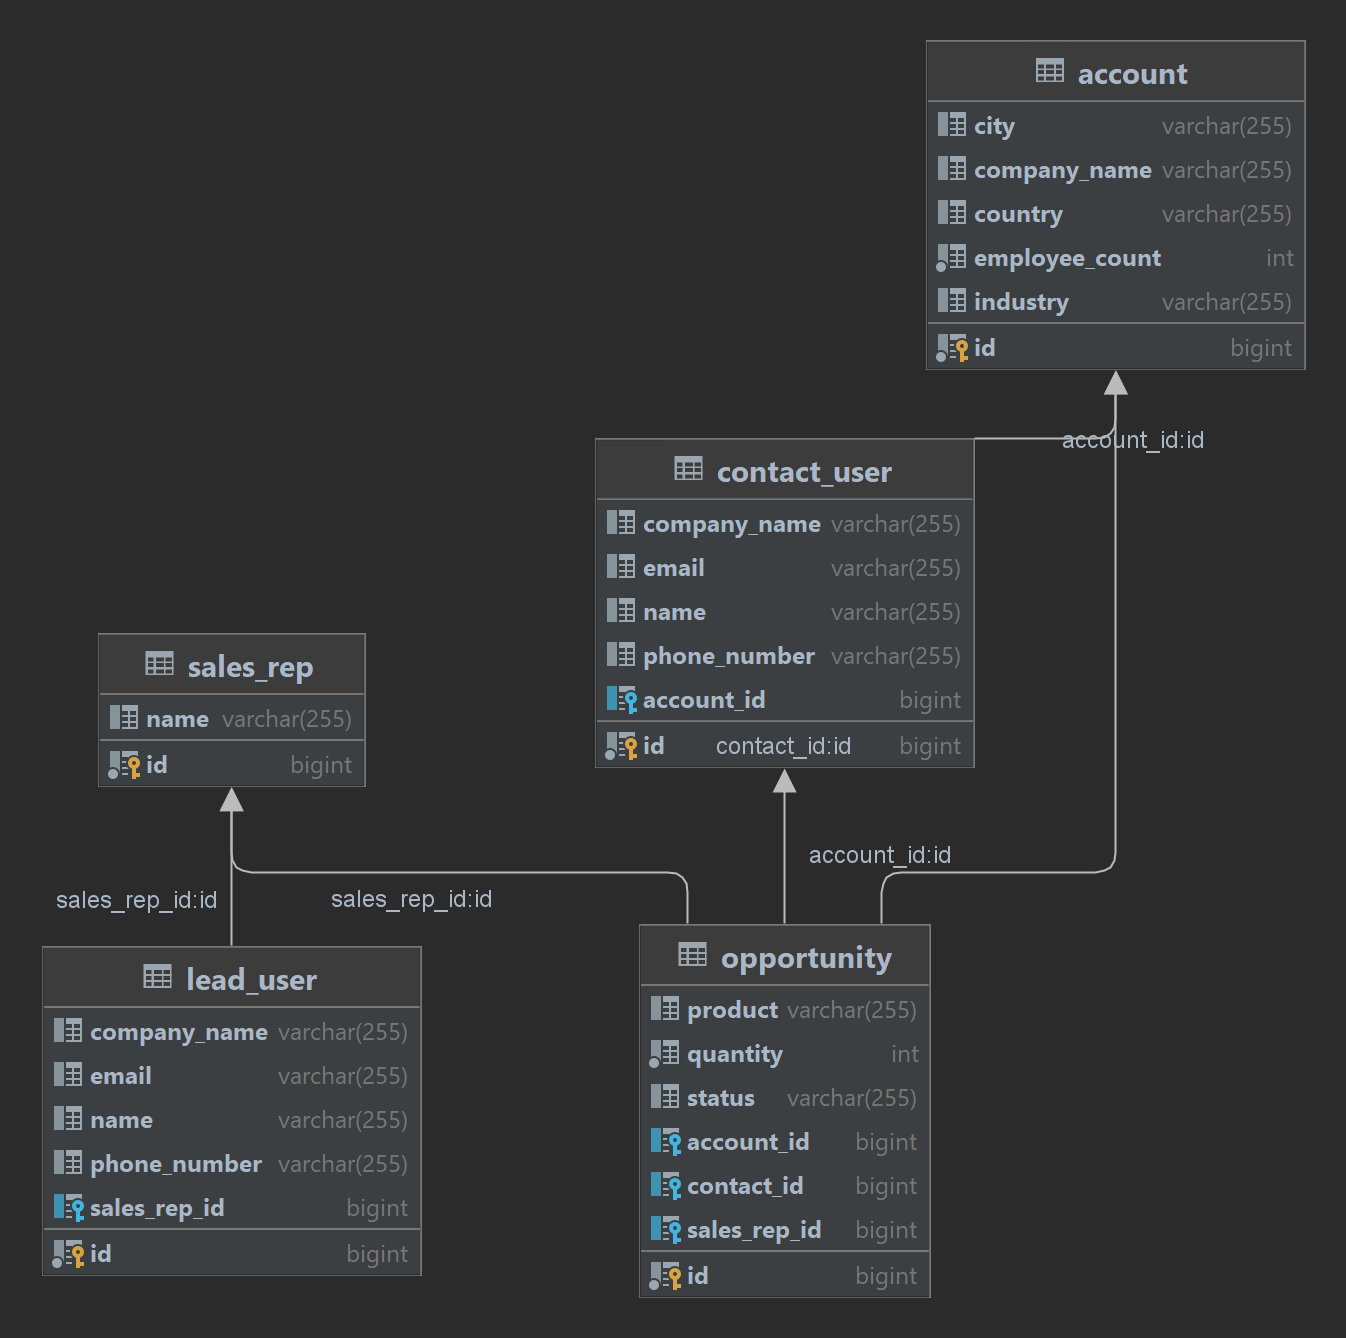
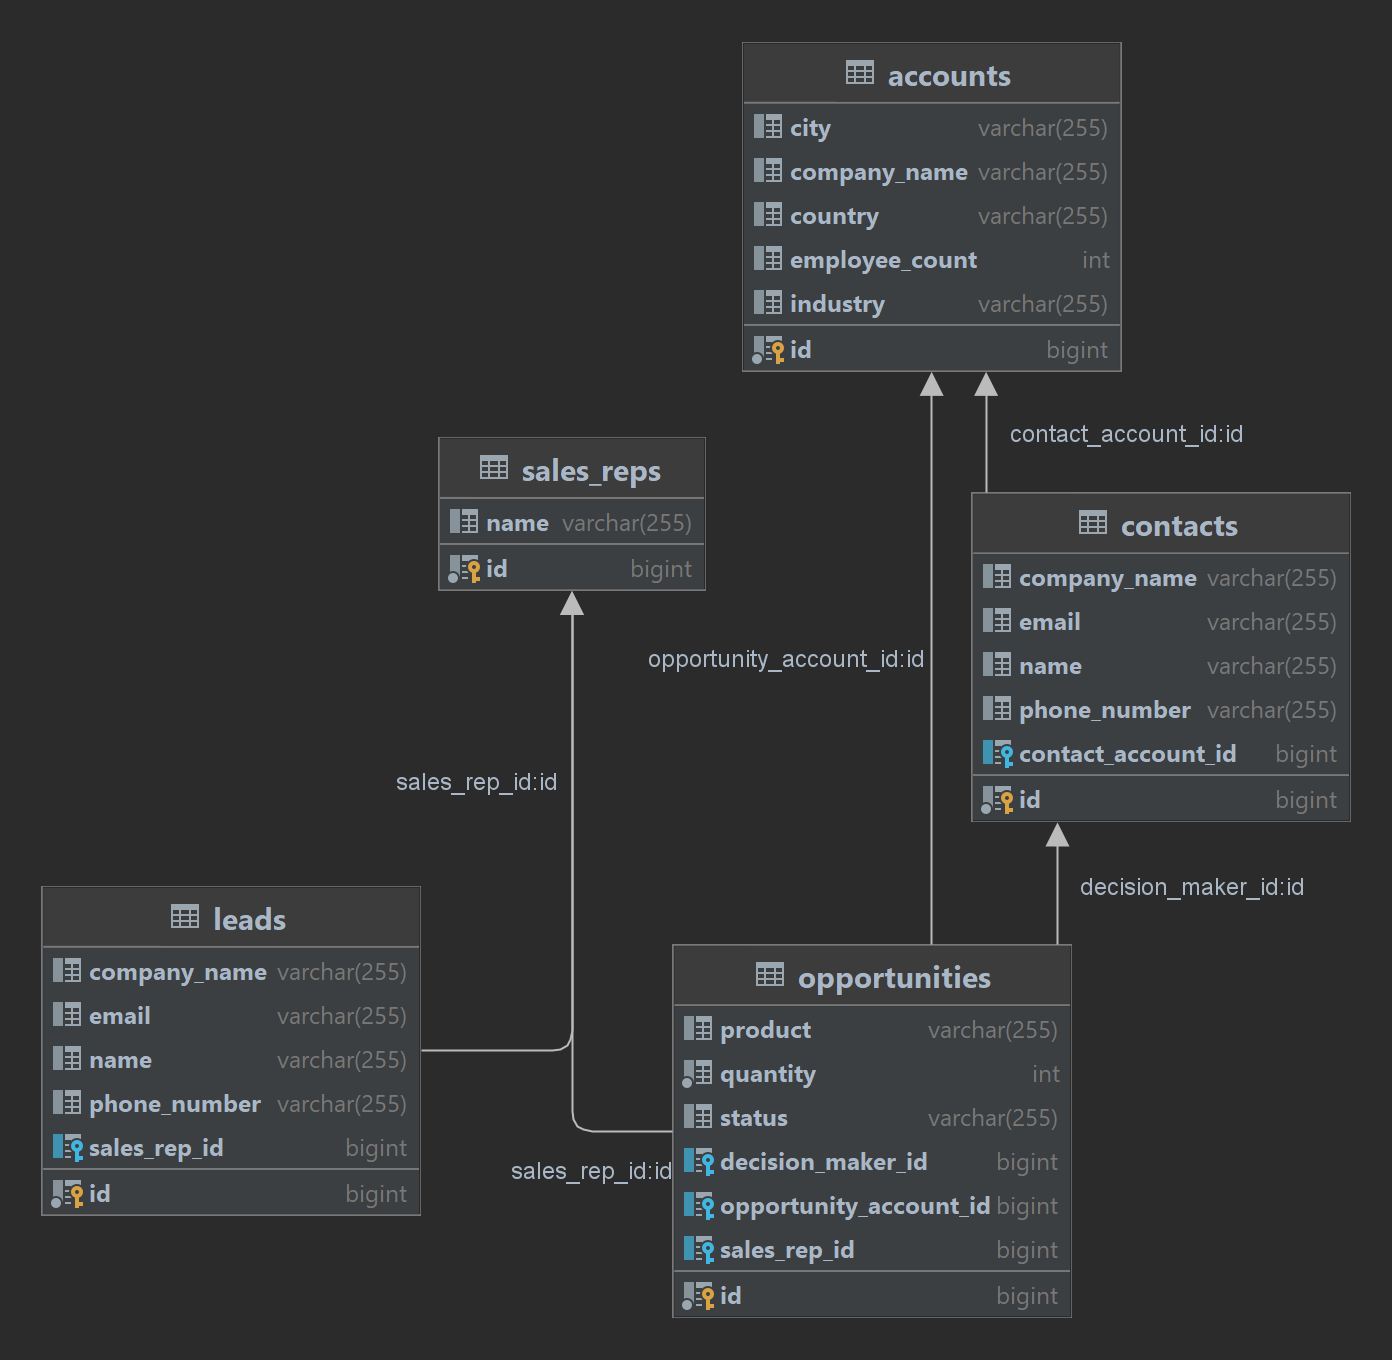
Readme.md and diagrams

diff --git a/README.md b/README.md
@@ -3,37 +3,30 @@
 ### Introduction
 Welcome to the RENUA Software CRM.
 This is a simple CRM that allows you to manage your customers and their orders.
-You can add, edit, delete and view your leads and customers.
 
-The entire project is controlled by keyboard commands. The data is stored in a serialised database in a file "serialized-data.txt".
+The entire project is controlled by keyboard commands.
 When running the project, the first recommended command to use is "help", which shows all possible commands to execute.
 
 ### UML Class Diagram
 ![class_diagram.png](class_diagram.png)
 
 ### UML Use Case Diagram
-![usecase.drawio.png](usecase.drawio.png)
+![use_case.png](use_case.png)
 
-### Serialization
-Serialization is the process of converting Java objects into a stream of bytes (array of bytes).
-The stream of bytes can be transmitted through a network connection, stored in a database as a BLOB object or saved as a binary file.
-The stored or transmitted stream of bytes can be reconstructed to Java object later.
-
-To convert any objects of a class into a stream, a special permission has to be provided for that class.
-Rather than defining it as a permission.
-In Java, this permission is provided by implementing the interface java.io.Serializable.
-This interface does not have any abstract methods.
-Purpose of this interface is just indicating that, the object of this classes are allowed to convert into a stream of bytes.
-
-We add a long variable serialVersionUID to the Serializable class.
-This id is used to identify the exact class of byte stream, when the stream is converted back to the Java object.
-The serialVersionUID is long number.
+### Tests
+We have tested all the methods that we have considered appropriate, that means that not all methods have tests but that is for a reason.
+We will not explain each case, so here are our criteria when deciding to test a method:
+- That is not a constructor, a toString() or a simple getter or setter
+- Not a private method
+- That the method does not return a message by console.
+- Do not duplicate methods, i.e. if there are two methods that return the same thing, only evaluate one.
 
 ### Diagram folders
 - **Commander**: Use to handle the command lines.
 - **Enums**: Use to handle the fixed values.
+- **Error**: Use to handle the exception classes.
 - **Model**: Use to handle the data model.
-- **Serialize**: Use to handle the data serialization.
+- **Repository**: Use to handle the repositories are needed to connect the services with the database.
 - **Service**: Use to handle the service layer.
 - **UserInput**: Use to handle the user inputs from command lines.
 
@@ -41,23 +34,36 @@ The serialVersionUID is long number.
 Run the software and follow the instructions.
 In the command line use *help* to see the available commands.
 The basic functionalities are:
-- Create a new lead.
-- Show all the leads, contacts, opportunities and accounts saved in the software.
-- Show the details of a lead, contact, opportunity or account.
+- Create a salesRep and a lead.
+- Show all the salesRep, leads, contacts, opportunities and accounts saved in the database.
+- Show the details of a salesRep, lead, contact, opportunity or account.
 - Convert a lead to an opportunity. Then the lead is converted to a contact and the account related with the contact is also created.
 - Update the status of an opportunity.
+- Show salresRep reports
 
 Using the "help" command you can find the following commands:
-
-    new lead                - Create a new lead
-    show leads              - Show all leads
-    lookup lead :id         - Show a lead by id
-    convert :id             - Convert a lead to a contact related with an opportunity and an account by lead id
-    show contacts           - Show all contacts
-    lookup contact :id      - Show a contact by id
-    show opportunities      - Show all opportunities
-    lookup opportunity :id  - Show an opportunity by id
-    show accounts           - Show all accounts
-    lookup account :id      - Show an account by id
-    close-lost :id          - Close an opportunity as lost by id
-    close-won :id           - Close an opportunity as won by id
+    
+    new salesrep                         - Create a new sales rep
+    show salesreps                       - Show all sales rep
+    lookup salesrep :id                  - Show a sales rep by id
+    new lead                             - Create a new lead
+    show leads                           - Show all leads
+    lookup lead :id                      - Show a lead by id
+    convert :id                          - Convert a lead to a contact related with an opportunity and an account by lead id
+    show contacts                        - Show all contacts
+    lookup contact :id                   - Show a contact by id
+    show opportunities                   - Show all opportunities
+    lookup opportunity :id               - Show an opportunity by id
+    show accounts                        - Show all accounts
+    lookup account :id                   - Show an account by id
+    close-lost :id                       - Close an opportunity as lost by id
+    close-won :id                        - Close an opportunity as won by id
+    report lead by salesrep              - show number of leads by salesrep
+    report opportunity by salesrep       - show number of opportunities by salesrep
+    report closed won by salesrep        - show number of closed won opportunities by salesrep
+    report open by salesrep              - show opened number of opportunities by salesrep
+    report opportunity by :attribute     - show number of opportunities by attribute, where attribute is one of the following: [the product], [city], [country], [industry]
+    report closed won by :attribute      - show number of closed won opportunities by attribute, where attribute is one of the following: [the product], [city], [country], [industry]
+    report open by :attribute            - show number of opened opportunities by attribute, where attribute is one of the following: [the product], [city], [country], [industry]
+    report closed lost by :attribute     - show number of closed lost opportunities by attribute, where attribute is one of the following: [the product], [city], [country], [industry]
+    exit                                 - Exit the program
